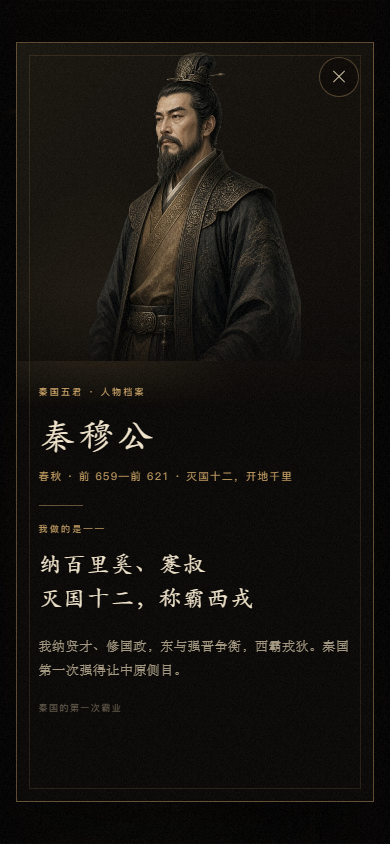
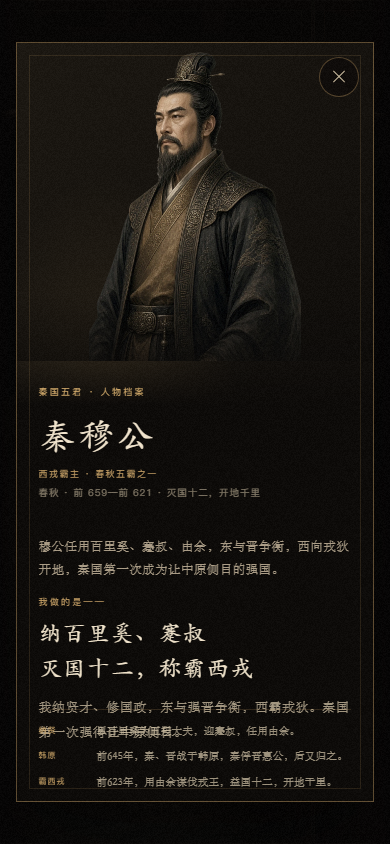
feat: enrich ruler spotlight with historical details

diff --git a/app.js b/app.js
@@ -17,8 +17,16 @@
       years: "约前 890 年受封",
       epithet: "得封于秦",
       glyph: "封",
+      role: "周附庸 · 秦邑之主",
       merit: ["为周王养马", "得封于秦"],
       body: "汧渭之间，马群蕃息。周孝王赐我秦邑，秦人从此有了第一块自己的土地。",
+      intro: "秦人早期只是周王室西陲的一支附庸。非子因善养马被周孝王召去主马，秦邑之封让这个族群第一次有了正式的名字与土地。",
+      facts: [
+        { label: "受封", text: "周孝王召非子主马于汧、渭之间，马大蕃息，封为附庸，邑之秦。" },
+        { label: "地理", text: "秦邑约在今甘肃清水、张家川一带，是秦人第一块正式封地。" },
+        { label: "身份", text: "非子还不是诸侯，秦此时只是周王室的附庸。" }
+      ],
+      quote: { text: "邑之秦，使复续嬴氏祀，号曰秦嬴。", source: "《史记·秦本纪》" },
       full: "我在汧渭之间为周孝王养马，马群蕃息。周孝王封我于秦，秦人从此有了第一块属于自己的土地。",
       meta: "秦国的第一块土地",
       accent: "#a3ae79",
@@ -34,8 +42,16 @@
       years: "护送平王东迁",
       epithet: "列为诸侯",
       glyph: "侯",
+      role: "秦国始封诸侯",
       merit: ["护送平王东迁", "秦国始列诸侯"],
       body: "犬戎之乱，我率兵救周。平王东迁，赐我岐西之地。秦国自此与中原诸侯并列。",
+      intro: "犬戎攻破镐京、周幽王被杀后，襄公率兵救周，又护送周平王东迁。平王赐岐以西之地，秦由此从附庸变成诸侯。",
+      facts: [
+        { label: "救周", text: "犬戎之乱，襄公将兵救周，战甚力，有功。" },
+        { label: "东迁", text: "周平王东徙洛邑，襄公以兵护送。" },
+        { label: "始国", text: "平王封襄公为诸侯，赐岐以西之地；秦始与诸侯通使聘享。" }
+      ],
+      quote: { text: "襄公于是始国，与诸侯通使聘享之礼。", source: "《史记·秦本纪》" },
       full: "犬戎之乱，我率兵救周；又护送周平王东迁。平王赐我岐西之地，秦国自此与中原诸侯并列。",
       meta: "从附庸到诸侯",
       accent: "#c98556",
@@ -51,8 +67,16 @@
       years: "灭国十二，开地千里",
       epithet: "称霸西戎",
       glyph: "霸",
+      role: "西戎霸主 · 春秋五霸之一",
       merit: ["纳百里奚、蹇叔", "灭国十二，称霸西戎"],
       body: "我纳贤才、修国政，东与强晋争衡，西霸戎狄。秦国第一次强得让中原侧目。",
+      intro: "穆公任用百里奚、蹇叔、由余，东与晋争衡，西向戎狄开地，秦国第一次成为让中原侧目的强国。",
+      facts: [
+        { label: "纳贤", text: "以百里奚为五羖大夫，迎蹇叔，任用由余。" },
+        { label: "韩原", text: "前645年，秦、晋战于韩原，秦俘晋惠公，后又归之。" },
+        { label: "霸西戎", text: "前623年，用由余谋伐戎王，益国十二，开地千里。" }
+      ],
+      quote: { text: "益国十二，开地千里，遂霸西戎。", source: "《史记·秦本纪》" },
       full: "我用百里奚、蹇叔，纳贤才、修国政；东与强晋争衡，西霸戎狄，灭国十二，开地千里。秦国第一次让中原侧目。",
       meta: "秦国的第一次霸业",
       accent: "#d6ad6c",
@@ -68,8 +92,16 @@
       years: "令狐、河曲之战",
       epithet: "与晋争锋",
       glyph: "峙",
+      role: "穆公之子 · 守成之君",
       merit: ["继穆公之业", "与晋争锋，不退西土"],
       body: "令狐、河曲，我与晋国反复交锋。胜负之外，秦国始终钉在西土，没有退出这盘棋。",
+      intro: "康公即位时，秦已是西土强国，但东出之路被晋国挡住。他在令狐、河曲与晋反复交锋，未能东进，却守住了穆公留下的基业。",
+      facts: [
+        { label: "令狐", text: "前620年，秦送公子雍入晋，赵盾拒之，秦师败于令狐。" },
+        { label: "河曲", text: "前615年，秦伐晋，取羁马，战于河曲，大败晋军。" },
+        { label: "用人", text: "晋大夫随会奔秦，康公留用；后晋人设计迎回随会。" }
+      ],
+      quote: { text: "六年，秦伐晋，取羁马，战于河曲，大败晋军。", source: "《史记·秦本纪》" },
       full: "我继穆公之业，与晋国战于令狐、河曲。胜负之外，秦国始终钉在西土，没有退出这盘棋。",
       meta: "守住秦国的位置",
       accent: "#84a4b3",
@@ -82,12 +114,20 @@
       roman: "QIN GONG GONG",
       image: "assets/portrait-gong.webp",
       era: "春秋 · 前 608—前 604",
-      years: "在位四年 · 守国待时",
+      years: "守国待时 · 年数有异说",
       epithet: "守国待时",
       glyph: "守",
+      role: "康公之子 · 守成之君",
       merit: ["在位虽短", "社稷未失，交予后来者"],
-      body: "我在位只有四年，史书没留下多少笔墨。但我守住了社稷，把秦国交到后来者手中。",
-      full: "我在位只有四年，史书没留下多少笔墨。但我守住了社稷，把秦国交到后来者手中。",
+      body: "我在位很短，史书留下的笔墨不多。但我守住了社稷，把秦国交到后来者手中。",
+      intro: "共公在位很短，史料留下的笔墨不多。他即位的第二年，晋国发生赵穿弑晋灵公之乱；秦国没有大举东出，而是守住了西土社稷。",
+      facts: [
+        { label: "晋乱", text: "共公二年，晋赵穿弑其君灵公。" },
+        { label: "年数", text: "《史记·秦本纪》记共公立五年；《左传》系年可推四年。" },
+        { label: "传承", text: "共公卒，子桓公立；秦国的接力继续。" }
+      ],
+      quote: { text: "共公立五年卒，子桓公立。", source: "《史记·秦本纪》" },
+      full: "我在位很短，史书留下的笔墨不多。但我守住了社稷，把秦国交到后来者手中。",
       meta: "把火种交给下一个人",
       accent: "#b9929a",
       accentRgb: "185, 146, 154",
@@ -112,8 +152,13 @@
   const spotlight = document.getElementById("spotlight");
   const spotlightImage = document.getElementById("spotlight-image");
   const spotlightName = document.getElementById("spotlight-name");
+  const spotlightRole = document.getElementById("spotlight-role");
   const spotlightEra = document.getElementById("spotlight-era");
+  const spotlightIntro = document.getElementById("spotlight-intro");
   const spotlightMerit = document.getElementById("spotlight-merit");
+  const spotlightFacts = document.getElementById("spotlight-facts");
+  const spotlightQuote = document.getElementById("spotlight-quote");
+  const spotlightCite = document.getElementById("spotlight-cite");
   const spotlightBody = document.getElementById("spotlight-body");
   const spotlightDescription = document.getElementById("spotlight-description");
   const spotlightMeta = document.getElementById("spotlight-meta");
@@ -350,10 +395,22 @@
     spotlight.style.setProperty("--accent", ruler.accent);
     spotlight.style.setProperty("--accent-rgb", ruler.accentRgb);
     spotlightName.textContent = ruler.name;
+    spotlightRole.textContent = ruler.role;
     spotlightEra.textContent = `${ruler.era} · ${ruler.years}`;
+    spotlightIntro.textContent = ruler.intro;
     spotlightMerit.innerHTML = ruler.merit.join("<br />");
+    spotlightFacts.innerHTML = ruler.facts
+      .map((fact) => `<p><span>${fact.label}</span>${fact.text}</p>`)
+      .join("");
+    spotlightQuote.textContent = `“${ruler.quote.text}”`;
+    spotlightCite.textContent = `—— ${ruler.quote.source}`;
     spotlightMeta.textContent = ruler.meta;
-    spotlightDescription.textContent = `${ruler.era}，${ruler.years}。${ruler.full}`;
+    spotlightDescription.textContent = [
+      ruler.role,
+      ruler.intro,
+      ...ruler.facts.map((fact) => `${fact.label}：${fact.text}`),
+      `史料：${ruler.quote.text}（${ruler.quote.source}）`
+    ].join(" ");
     spotlightImage.src = ruler.image;
     typeInto(spotlightBody, ruler.body);
   }

diff --git a/styles.css b/styles.css
@@ -2191,9 +2191,11 @@ body.spotlight-open {
   flex-direction: column;
   justify-content: center;
   min-width: 0;
-  padding: clamp(38px, 4vw, 62px) clamp(30px, 4vw, 62px);
+  padding: clamp(30px, 3vw, 44px) clamp(30px, 4vw, 62px);
   background: linear-gradient(90deg, rgba(12, 10, 8, 0) 0%, rgba(12, 10, 8, 0.72) 12%, rgba(12, 10, 8, 0.95) 48%, #0b0907 100%);
   overflow-y: auto;
+  scrollbar-width: thin;
+  scrollbar-color: rgba(var(--accent-rgb), 0.35) transparent;
 }
 
 .spotlight-kicker {
@@ -2214,25 +2216,42 @@ body.spotlight-open {
   letter-spacing: 0.08em;
 }
 
-.spotlight-era {
-  margin: 11px 0 0;
-  color: rgba(var(--accent-rgb), 0.9);
+.spotlight-role {
+  margin: 10px 0 0;
+  color: rgba(var(--accent-rgb), 0.92);
   font-family: var(--font-sans);
-  font-size: 10.5px;
-  line-height: 1.8;
-  letter-spacing: 0.13em;
+  font-size: 9px;
+  letter-spacing: 0.16em;
+}
+
+.spotlight-era {
+  margin: 5px 0 0;
+  color: rgba(207, 192, 164, 0.6);
+  font-family: var(--font-sans);
+  font-size: 9.5px;
+  line-height: 1.7;
+  letter-spacing: 0.1em;
 }
 
 .spotlight-rule {
   display: block;
   width: 44px;
   height: 1px;
-  margin: 24px 0 20px;
+  margin: 16px 0 14px;
   background: rgba(var(--accent-rgb), 0.45);
 }
 
+.spotlight-intro {
+  margin: 0 0 14px;
+  color: rgba(207, 192, 164, 0.82);
+  font-family: var(--font-serif);
+  font-size: 12.5px;
+  line-height: 1.85;
+  letter-spacing: 0.035em;
+}
+
 .spotlight-lead {
-  margin: 0 0 12px;
+  margin: 0 0 8px;
   color: rgba(var(--accent-rgb), 0.92);
   font-family: var(--font-sans);
   font-size: 9px;
@@ -2249,17 +2268,70 @@ body.spotlight-open {
 }
 
 .spotlight-body {
-  min-height: 5.4em;
-  margin: 18px 0 0;
-  color: rgba(207, 192, 164, 0.8);
+  min-height: 0;
+  margin: 10px 0 0;
+  color: rgba(207, 192, 164, 0.78);
   font-family: var(--font-serif);
-  font-size: 14px;
-  line-height: 2;
+  font-size: 12.5px;
+  line-height: 1.85;
   letter-spacing: 0.04em;
 }
 
+.spotlight-facts {
+  display: grid;
+  gap: 7px;
+  margin-top: 14px;
+  padding-top: 12px;
+  border-top: 1px solid rgba(var(--accent-rgb), 0.18);
+}
+
+.spotlight-facts p {
+  display: grid;
+  grid-template-columns: 48px minmax(0, 1fr);
+  gap: 10px;
+  margin: 0;
+  color: rgba(207, 192, 164, 0.76);
+  font-family: var(--font-serif);
+  font-size: 10.5px;
+  line-height: 1.75;
+  letter-spacing: 0.02em;
+}
+
+.spotlight-facts span {
+  padding-top: 2px;
+  color: rgba(var(--accent-rgb), 0.9);
+  font-family: var(--font-sans);
+  font-size: 8px;
+  letter-spacing: 0.12em;
+}
+
+.spotlight-quote {
+  margin: 14px 0 0;
+  padding: 9px 0 0 14px;
+  border-left: 2px solid rgba(var(--accent-rgb), 0.45);
+}
+
+.spotlight-quote p {
+  margin: 0;
+  color: rgba(244, 231, 207, 0.9);
+  font-family: var(--font-kai);
+  font-size: 13.5px;
+  line-height: 1.8;
+  letter-spacing: 0.02em;
+}
+
+.spotlight-quote cite {
+  display: block;
+  margin-top: 5px;
+  color: rgba(152, 139, 116, 0.65);
+  font-family: var(--font-sans);
+  font-size: 8px;
+  font-style: normal;
+  letter-spacing: 0.1em;
+}
+
 .spotlight-meta {
-  margin: 18px 0 0;
+  margin: 14px 0 0;
   color: rgba(152, 139, 116, 0.65);
   font-family: var(--font-sans);
   font-size: 9px;

diff --git a/index.html b/index.html
@@ -92,11 +92,18 @@
       <div class="spotlight-copy">
         <p class="spotlight-kicker">秦国五君 · 人物档案</p>
         <h2 class="spotlight-name" id="spotlight-name"></h2>
+        <p class="spotlight-role" id="spotlight-role"></p>
         <p class="spotlight-era" id="spotlight-era"></p>
         <span class="spotlight-rule" aria-hidden="true"></span>
+        <p class="spotlight-intro" id="spotlight-intro"></p>
         <p class="spotlight-lead">我做的是——</p>
         <p class="spotlight-merit" id="spotlight-merit"></p>
         <p class="spotlight-body" id="spotlight-body" aria-hidden="true"></p>
+        <div class="spotlight-facts" id="spotlight-facts"></div>
+        <blockquote class="spotlight-quote">
+          <p id="spotlight-quote"></p>
+          <cite id="spotlight-cite"></cite>
+        </blockquote>
         <p class="sr-only" id="spotlight-description"></p>
         <p class="spotlight-meta" id="spotlight-meta"></p>
       </div>
